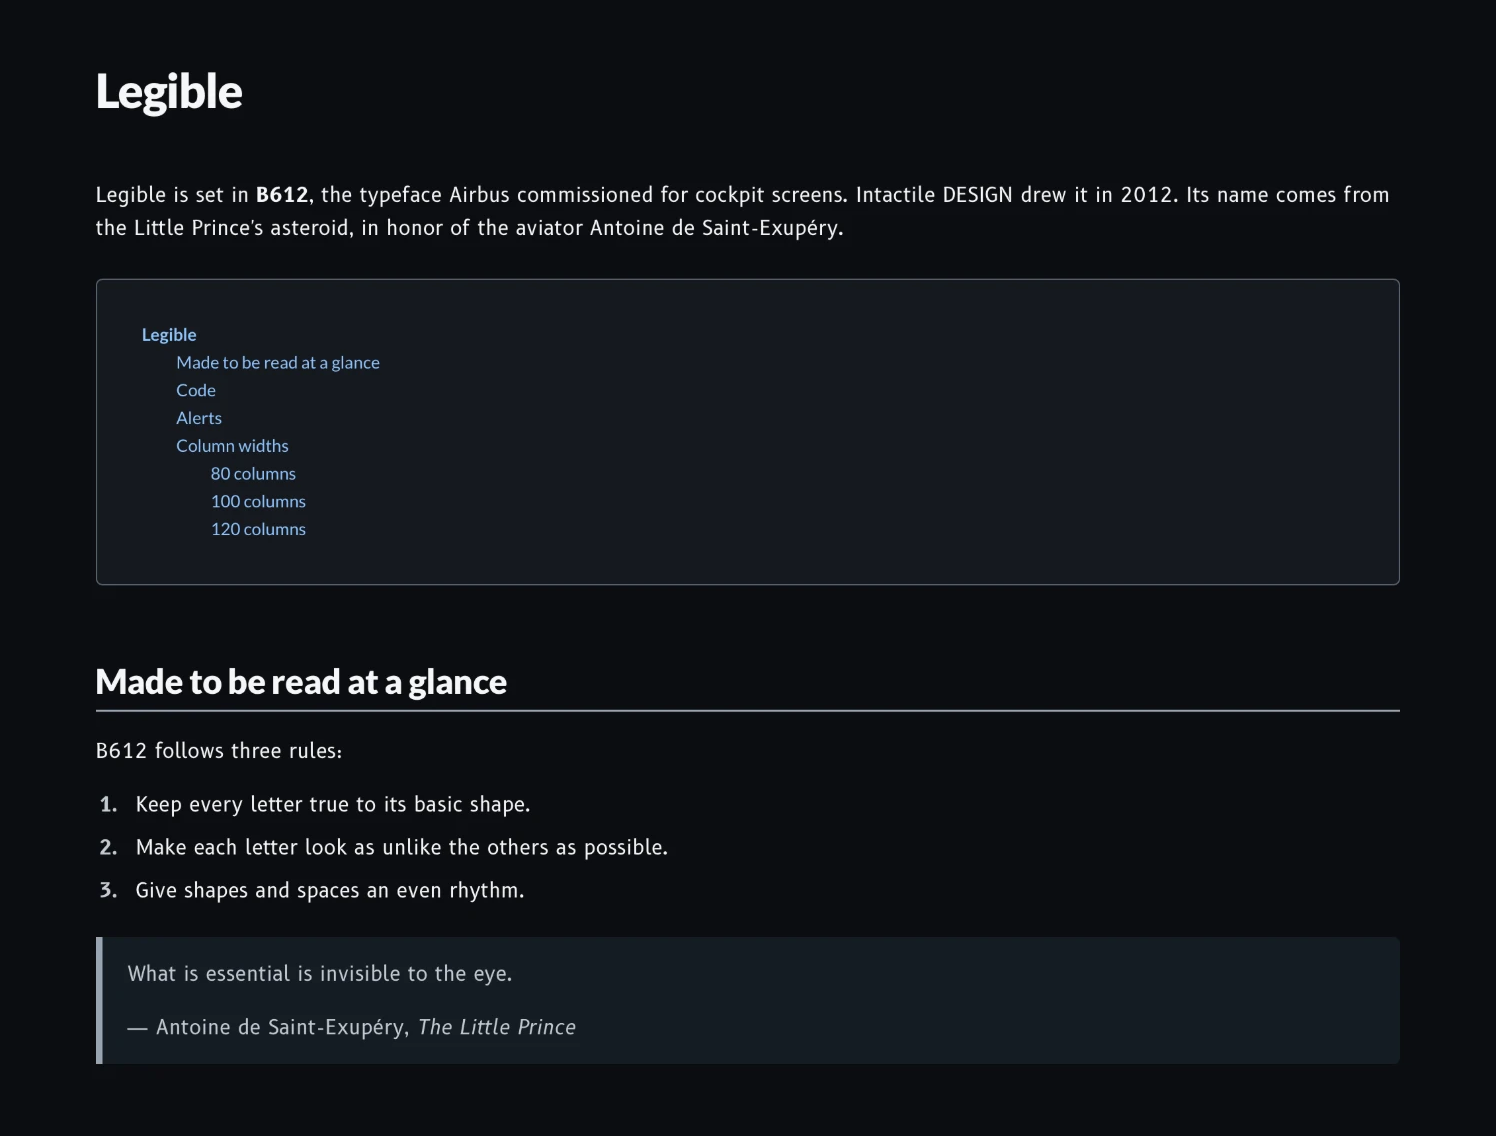
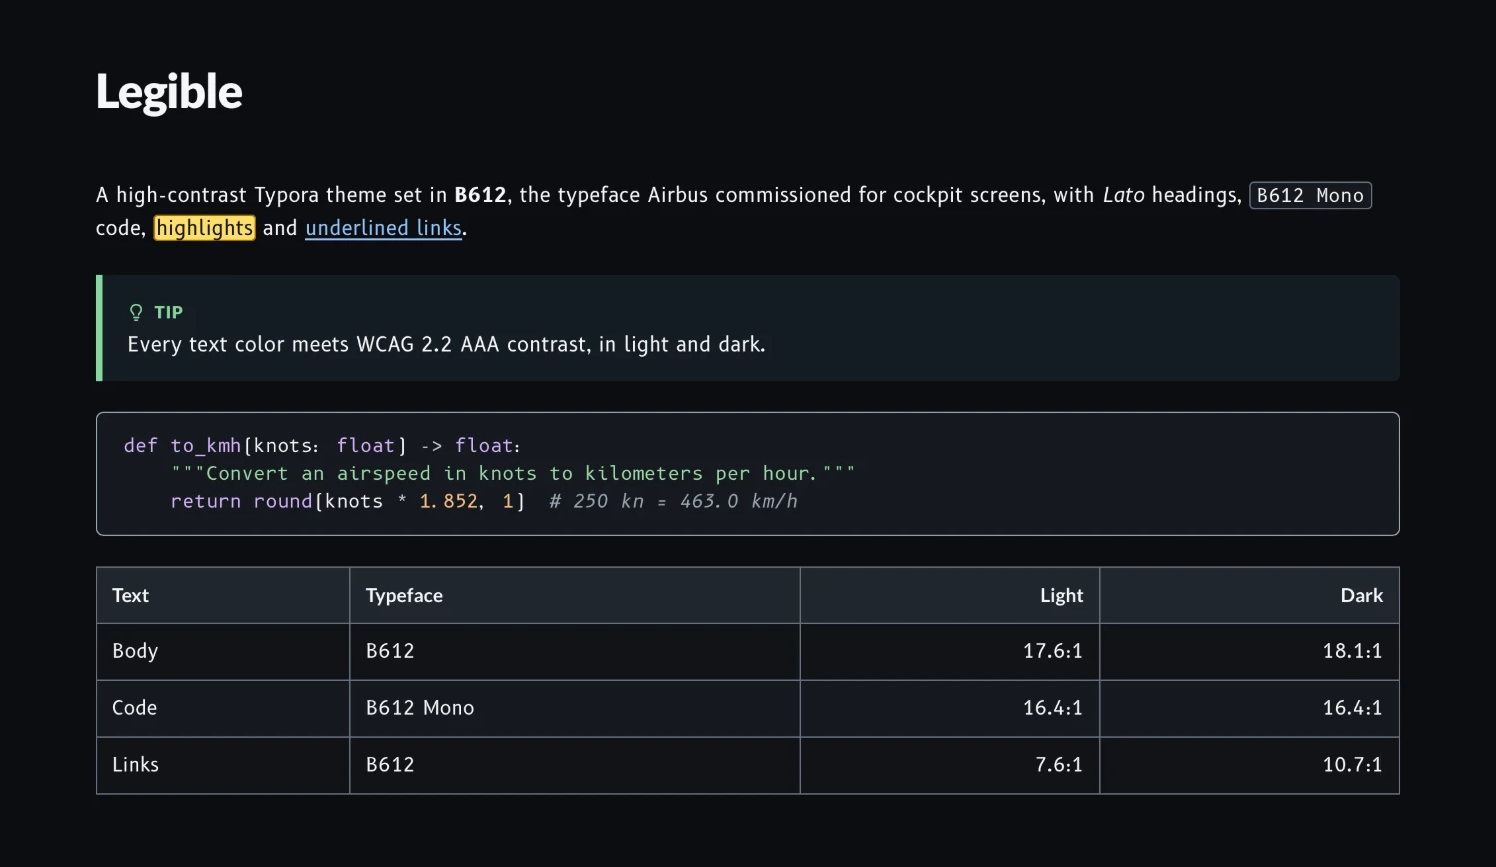
Fix code, alert, footnote and search contrast; update screenshots
Typora's own light-theme colors showed through wherever Legible's
selectors missed: untouched code tokens (black variables on the dark
theme), alerts (Typora draws div.md-alert, not blockquote), footnotes
(faded to 80%, #888 in exports) and the current search match (#111 on
#000). Each now uses theme colors at 7:1 or better, with underlines on
bracket pairs. New screenshots show the page that proves it.

diff --git a/legible.css b/legible.css
@@ -155,6 +155,8 @@
     --window-border: 1px solid var(--border);
     --select-text-bg-color: var(--selection);
     --select-text-font-color: var(--on-accent);
+    --search-select-bg-color: #ffbd38;
+    --search-select-text-color: #111111;
     --rawblock-edit-panel-bd: var(--surface);
     --mermaid-theme: neutral;
     --mermaid-font-family: var(--font-heading);
@@ -323,59 +325,66 @@ blockquote > :last-child {
     margin-bottom: 0;
 }
 
-blockquote.md-alert,
-blockquote:has(.md-alert-text-container) {
-    border-left-color: var(--accent);
+/* Typora draws GitHub alerts as div.md-alert; they share the quote's look. */
+.md-alert {
+    margin: var(--space-block) 0;
+    padding: 1em 1.25em;
+    border-left: 0.35rem solid var(--accent);
+    border-radius: 0 var(--radius) var(--radius) 0;
+    background: var(--quote);
     color: var(--text);
 }
 
-blockquote.md-alert .md-alert-text-container,
-blockquote:has(.md-alert-text-container) .md-alert-text-container {
-    margin-bottom: 0.4em;
-    color: var(--accent);
+.md-alert > :last-child {
+    margin-bottom: 0;
+}
+
+/* The label is the text itself in exports and an ::after in the editor. */
+.md-alert-text,
+.md-alert-text-container::after {
     font-family: var(--font-heading);
     font-weight: 900;
     letter-spacing: 0.05em;
     text-transform: uppercase;
 }
 
-blockquote.md-alert-tip,
-blockquote:has(.md-alert-text-tip) {
+.md-alert.md-alert-note {
+    border-left-color: var(--accent);
+}
+
+.md-alert.md-alert-tip {
     border-left-color: var(--success);
 }
 
-blockquote.md-alert-tip .md-alert-text-container,
-blockquote:has(.md-alert-text-tip) .md-alert-text-container {
-    color: var(--success);
-}
-
-blockquote.md-alert-important,
-blockquote:has(.md-alert-text-important) {
+.md-alert.md-alert-important {
     border-left-color: var(--important);
 }
 
-blockquote.md-alert-important .md-alert-text-container,
-blockquote:has(.md-alert-text-important) .md-alert-text-container {
-    color: var(--important);
-}
-
-blockquote.md-alert-warning,
-blockquote:has(.md-alert-text-warning) {
+.md-alert.md-alert-warning {
     border-left-color: var(--warning);
 }
 
-blockquote.md-alert-warning .md-alert-text-container,
-blockquote:has(.md-alert-text-warning) .md-alert-text-container {
-    color: var(--warning);
-}
-
-blockquote.md-alert-caution,
-blockquote:has(.md-alert-text-caution) {
+.md-alert.md-alert-caution {
     border-left-color: var(--danger);
 }
 
-blockquote.md-alert-caution .md-alert-text-container,
-blockquote:has(.md-alert-text-caution) .md-alert-text-container {
+.md-alert-text-note {
+    color: var(--accent);
+}
+
+.md-alert-text-tip {
+    color: var(--success);
+}
+
+.md-alert-text-important {
+    color: var(--important);
+}
+
+.md-alert-text-warning {
+    color: var(--warning);
+}
+
+.md-alert-text-caution {
     color: var(--danger);
 }
 
@@ -474,13 +483,27 @@ pre.md-fences .CodeMirror-gutters,
     color: var(--select-text-font-color) !important;
 }
 
+/* Every token class gets a theme color; Typora's light-theme defaults would show through otherwise. */
+.cm-variable,
+.cm-code {
+    color: var(--text) !important;
+}
+
+.cm-operator,
+.cm-bracket,
+.cm-hr,
+.cm-quote {
+    color: var(--text-muted) !important;
+}
+
 .cm-keyword,
 .cm-tag,
 .cm-attribute,
 .cm-property,
 .cm-def,
 .cm-builtin,
-.cm-qualifier {
+.cm-qualifier,
+.cm-header {
     color: var(--code-keyword) !important;
 }
 
@@ -490,13 +513,15 @@ pre.md-fences .CodeMirror-gutters,
 }
 
 .cm-number,
-.cm-atom {
+.cm-atom,
+.cm-constant {
     color: var(--code-number) !important;
 }
 
 .cm-type,
 .cm-variable-2,
-.cm-variable-3 {
+.cm-variable-3,
+.cm-defined {
     color: var(--code-type) !important;
 }
 
@@ -515,15 +540,34 @@ pre.md-fences .CodeMirror-gutters,
 }
 
 .cm-negative,
-.cm-error {
+.cm-error,
+.cm-invalidchar {
     color: var(--danger) !important;
     background: transparent !important;
 }
 
-/* A pattern as well as a color, so errors don't rely on color alone. */
-.cm-error {
+/* A pattern as well as a color, so errors and bracket pairs don't rely on color alone. */
+.cm-error,
+.cm-invalidchar {
     text-decoration: underline wavy;
     text-decoration-skip-ink: none;
+}
+
+div.CodeMirror span.CodeMirror-matchingbracket {
+    color: var(--success) !important;
+    text-decoration: underline;
+}
+
+div.CodeMirror span.CodeMirror-nonmatchingbracket {
+    color: var(--danger) !important;
+    text-decoration: underline wavy;
+}
+
+/* Search hits in code look like hits in prose. */
+.cm-search-hit {
+    background: var(--mark) !important;
+    color: #151515 !important;
+    box-shadow: inset 0 -2px 0 var(--mark-edge);
 }
 
 /* Typora wraps each table in a figure. */
@@ -620,8 +664,8 @@ img {
 
 .md-search-select {
     border-radius: var(--radius-small);
-    background: #ffbd38;
-    color: #111111 !important;
+    background: var(--search-select-bg-color);
+    color: var(--search-select-text-color) !important;
     box-shadow: 0 0 0 2px var(--focus);
 }
 
@@ -630,15 +674,16 @@ sup.md-footnote {
     background: transparent;
 }
 
-.md-footnotes {
-    margin-top: calc(var(--space-block) * 2);
-    padding: 1em 1.25em;
-    border: 1px solid var(--border);
-    border-top: 3px solid var(--border-strong);
-    border-radius: var(--radius);
-    background: var(--surface);
+/* Footnotes are div.footnotes in the editor and .footnotes-area in exports; Typora fades both. */
+.footnotes,
+.footnotes-area {
     color: var(--text-muted);
     font-size: 0.9em;
+    opacity: 1;
+}
+
+.footnote-line {
+    font-size: inherit;
 }
 
 .md-toc {
@@ -892,6 +937,7 @@ textarea {
     }
 
     blockquote,
+    .md-alert,
     pre.md-fences,
     img,
     tr,

diff --git a/README.md b/README.md
@@ -3,8 +3,8 @@
 A high-contrast theme for [Typora](https://typora.io), in light and dark, set in the
 typeface Airbus made for cockpit screens.
 
-![The sample document in Legible](screenshots/light.png)
-![The same document in Legible Dark](screenshots/dark.png)
+![Legible: a heading, a tip, a Python code block and a table of contrast ratios](screenshots/light.png)
+![The same page in Legible Dark](screenshots/dark.png)
 
 ## Why B612
 
